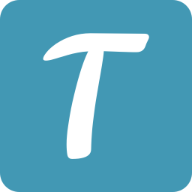
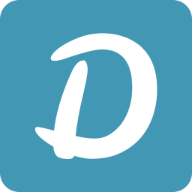
update

Changed region(s): [[0.1562, 0.1562, 0.8438, 0.8438]]

diff --git a/public/index.html b/public/index.html
@@ -22,7 +22,7 @@
       work correctly both with client-side routing and a non-root public URL.
       Learn how to configure a non-root public URL by running `npm run build`.
     -->
-    <title>Tamban Location Map</title>
+    <title>Daraw</title>
   </head>
   <body>
     <noscript>You need to enable JavaScript to run this app.</noscript>
